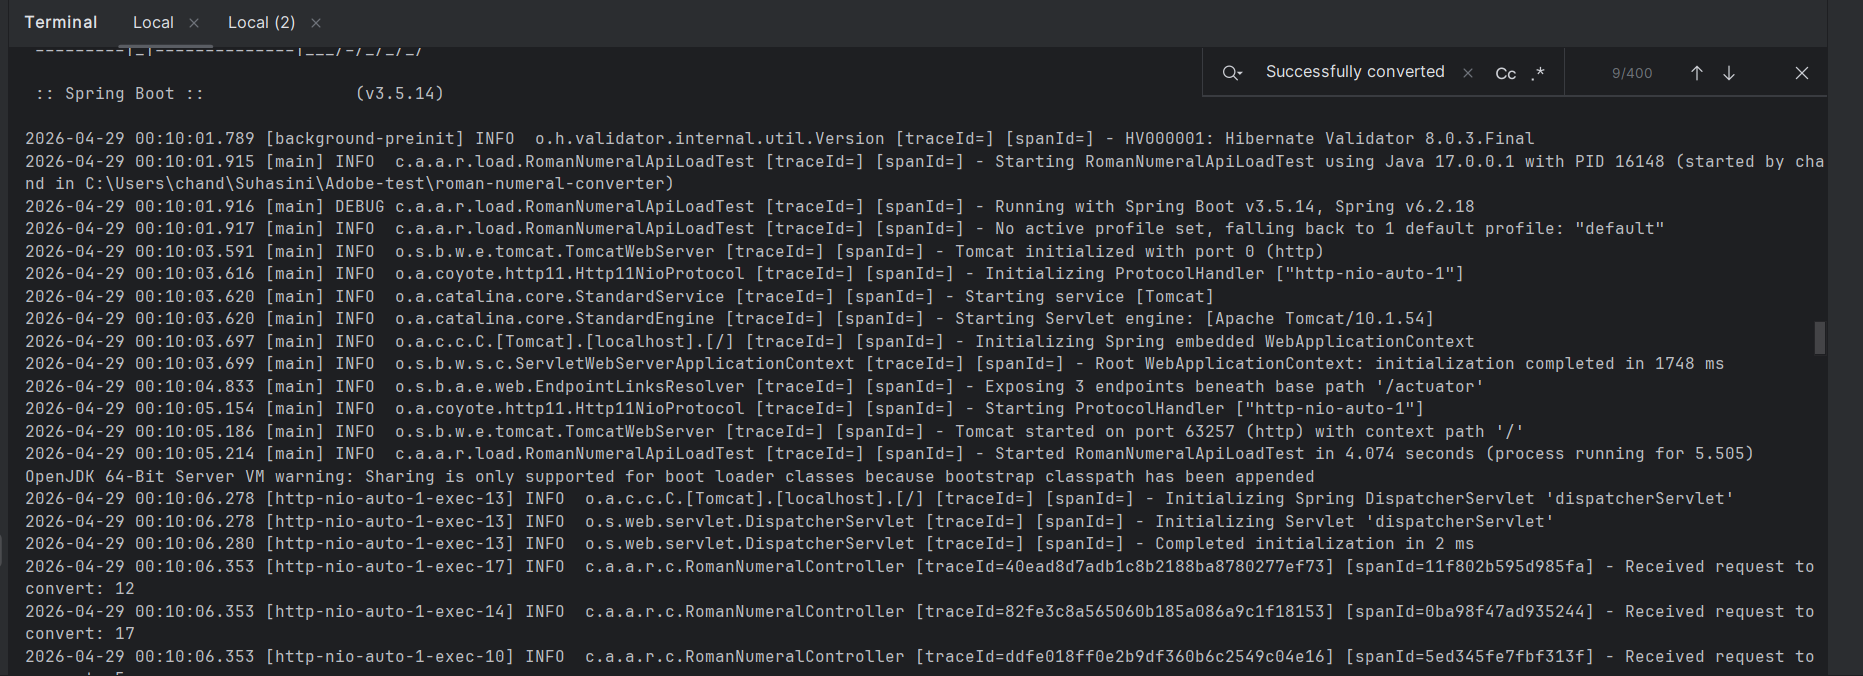
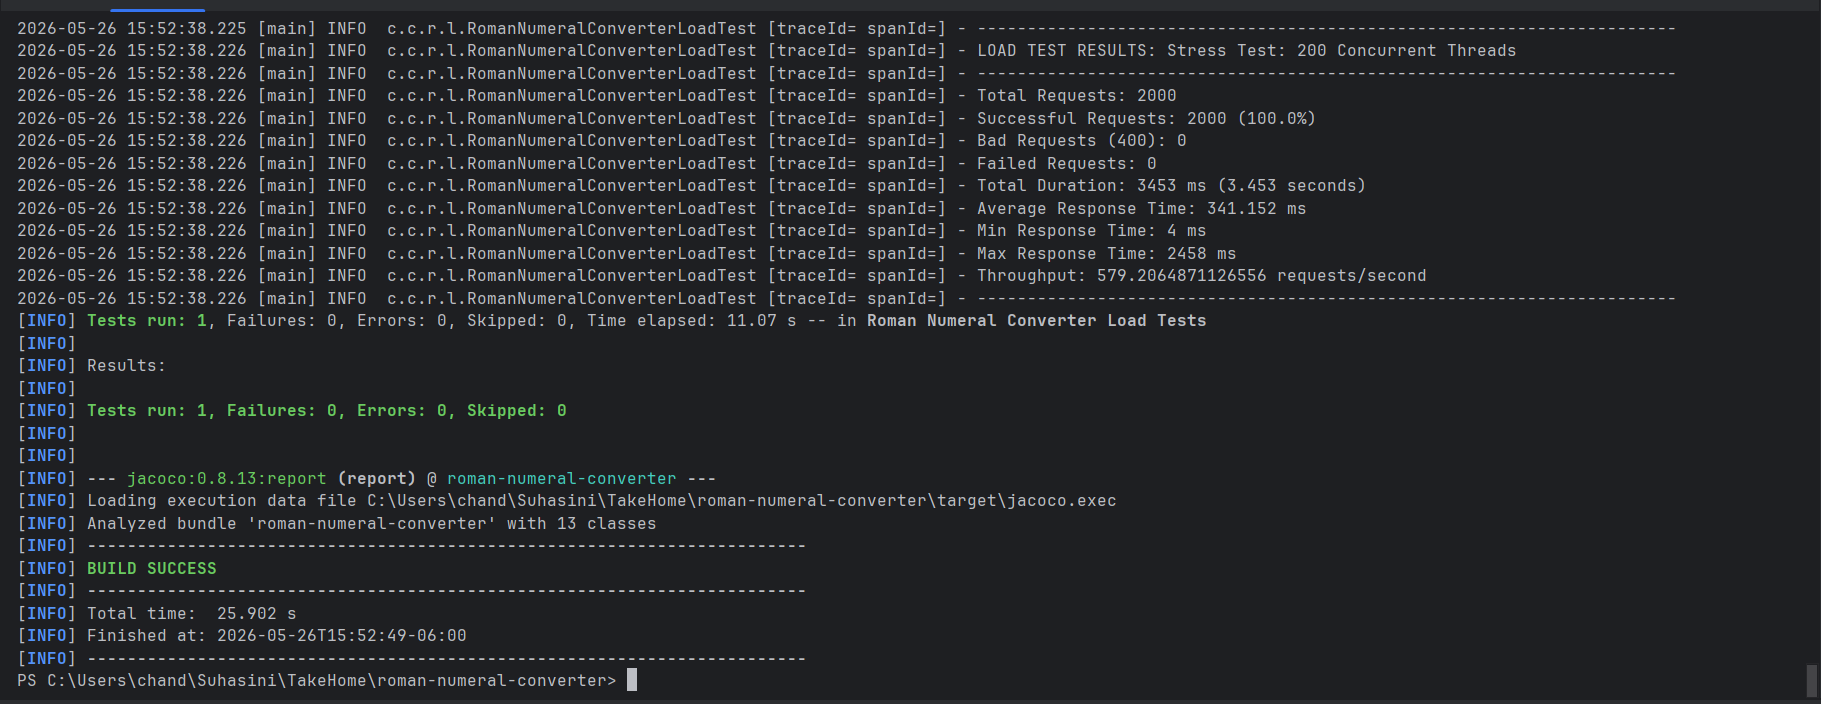
minor changes

Changed region(s): [[0.0, 0.0, 1.0, 0.9941], [0.9533, 0.466, 0.9841, 0.5281], [0.8611, 0.0932, 0.8918, 0.1243]]

diff --git a/src/test/java/com/converter/romannumerals/load/RomanNumeralConverterLoadTest.java b/src/test/java/com/converter/romannumerals/load/RomanNumeralConverterLoadTest.java
@@ -3,6 +3,7 @@ package com.converter.romannumerals.load;
 import lombok.extern.slf4j.Slf4j;
 import org.junit.jupiter.api.BeforeEach;
 import org.junit.jupiter.api.DisplayName;
+import org.junit.jupiter.api.Tag;
 import org.junit.jupiter.api.Test;
 import org.springframework.boot.test.context.SpringBootTest;
 import org.springframework.boot.test.web.client.TestRestTemplate;
@@ -26,9 +27,10 @@ import static org.assertj.core.api.Assertions.*;
  * {@code mvn test -Dgroups=loadtest}
  */
 @SpringBootTest(webEnvironment = SpringBootTest.WebEnvironment.RANDOM_PORT,
-                                properties = {"rate-limit.enabled=false"})
+        properties = {"rate-limit.enabled=false"})
 @Slf4j
 @DisplayName("Roman Numeral Converter Load Tests")
+@Tag("loadtest")
 class RomanNumeralConverterLoadTest {
 
     @LocalServerPort
@@ -38,7 +40,7 @@ class RomanNumeralConverterLoadTest {
     private String baseUrl;
 
     @BeforeEach
-    void setup() {
+    void setUp() {
         restTemplate = new TestRestTemplate();
         baseUrl = "http://localhost:" + port;
     }
@@ -141,8 +143,7 @@ class RomanNumeralConverterLoadTest {
         int totalRequests = 300;
 
         LoadTestMetrics metrics = executeLoadTest(concurrentRequests, totalRequests, () -> {
-            Random random = new Random();
-            int randomNumber = random.nextBoolean() ? 1 : 3999;
+            int randomNumber = new Random().nextBoolean() ? 1 : 3999;
             return restTemplate.getForEntity(
                     baseUrl + "/romannumeral?query=" + randomNumber,
                     Object.class
@@ -201,7 +202,7 @@ class RomanNumeralConverterLoadTest {
             );
         });
 
-        logMetrics("200 Concurrent Threads Stress Test", metrics);
+        logMetrics("Stress Test: 200 Concurrent Threads", metrics);
 
         assertThat(metrics.totalRequests).isEqualTo(totalRequests);
         assertThat(metrics.successfulRequests).isGreaterThanOrEqualTo((int)(totalRequests * 0.90));
@@ -253,12 +254,12 @@ class RomanNumeralConverterLoadTest {
         }
 
         executorService.shutdown();
-        try{
+        try {
             if (!executorService.awaitTermination(durationSeconds + 10, TimeUnit.SECONDS)) {
                 log.warn("Sustained load executor did not terminate within timeout - forcing shutdown");
                 executorService.shutdownNow();
                 if (!executorService.awaitTermination(30, TimeUnit.SECONDS)) {
-                    log.error("Sustained load executor did not terminate after shutdowns");
+                    log.error("Sustained load executor did not terminate after shutdown");
                 }
             }
         } catch (InterruptedException e) {
@@ -280,16 +281,16 @@ class RomanNumeralConverterLoadTest {
 
         double throughput = (double) totalRequests.get() / durationSeconds;
 
-        log.info("=".repeat(70));
-        log.info("SUSTAINED LOAD TEST RESULTS (30 seconds)");
-        log.info("=".repeat(70));
+        log.info("-".repeat(70));
+        log.info("SUSTAINED LOAD TEST RESULTS (30 seconds):");
+        log.info("-".repeat(70));
         log.info("Total Requests: {}", totalRequests.get());
-        log.info("Successful Requests: {} ({:.2f}%)", successfulRequests.get(),
+        log.info("Successful Requests: {} ({}%)", successfulRequests.get(),
                 (successfulRequests.get() * 100.0) / totalRequests.get());
-        log.info("Throughput: {:.2f} requests/second", throughput);
-        log.info("Average Response Time: {:.2f} ms", avgResponseTime);
+        log.info("Throughput: {} requests/second", throughput);
+        log.info("Average Response Time: {} ms", avgResponseTime);
         log.info("Max Response Time: {} ms", maxResponseTime);
-        log.info("=".repeat(70));
+        log.info("-".repeat(70));
 
         assertThat(totalRequests.get()).isGreaterThan(0);
         assertThat(successfulRequests.get()).isGreaterThanOrEqualTo((int)(totalRequests.get() * 0.90));
@@ -312,7 +313,7 @@ class RomanNumeralConverterLoadTest {
                 );
             });
 
-            log.info("Ramp-up: {} threads - Avg Response Time: {:.2f} ms, Success Rate: {:.2f}%",
+            log.info("Ramp-up: {} threads - Avg Response Time: {} ms, Success Rate: {}%",
                     threadCount, metrics.avgResponseTime,
                     (metrics.successfulRequests * 100.0) / metrics.totalRequests);
         }
@@ -327,7 +328,7 @@ class RomanNumeralConverterLoadTest {
      * @return LoadTestMetrics with collected performance data
      */
     private LoadTestMetrics executeLoadTest(int concurrentRequests, int totalRequests,
-                                           RequestSupplier requestSupplier) throws InterruptedException {
+                                            RequestSupplier requestSupplier) throws InterruptedException {
         ExecutorService executorService = Executors.newFixedThreadPool(concurrentRequests);
         List<Long> responseTimes = Collections.synchronizedList(new ArrayList<>());
         AtomicInteger successfulRequests = new AtomicInteger(0);
@@ -360,12 +361,12 @@ class RomanNumeralConverterLoadTest {
         }
 
         executorService.shutdown();
-        try{
-            if (!executorService.awaitTermination(5, TimeUnit.SECONDS)) {
+        try {
+            if (!executorService.awaitTermination(5, TimeUnit.MINUTES)) {
                 log.warn("Sustained load executor did not terminate within timeout - forcing shutdown");
                 executorService.shutdownNow();
                 if (!executorService.awaitTermination(30, TimeUnit.SECONDS)) {
-                    log.error("Sustained load executor did not terminate after shutdowns");
+                    log.error("Sustained load executor did not terminate after shutdown");
                 }
             }
         } catch (InterruptedException e) {
@@ -375,6 +376,7 @@ class RomanNumeralConverterLoadTest {
         }
 
         long endTime = System.currentTimeMillis();
+
         double avgResponseTime = responseTimes.stream()
                 .mapToLong(Long::longValue)
                 .average()
@@ -406,22 +408,22 @@ class RomanNumeralConverterLoadTest {
      * Log load test metrics in a formatted table.
      */
     private void logMetrics(String testName, LoadTestMetrics metrics) {
-        log.info("=".repeat(70));
+        log.info("-".repeat(70));
         log.info("LOAD TEST RESULTS: {}", testName);
-        log.info("=".repeat(70));
+        log.info("-".repeat(70));
         log.info("Total Requests: {}", metrics.totalRequests);
-        log.info("Successful Requests: {} ({:.2f}%)", metrics.successfulRequests,
+        log.info("Successful Requests: {} ({}%)", metrics.successfulRequests,
                 (metrics.successfulRequests * 100.0) / metrics.totalRequests);
         log.info("Bad Requests (400): {}", metrics.badRequestCount);
         log.info("Failed Requests: {}", metrics.failedRequests);
-        log.info("Total Duration: {} ms ({:.2f} seconds)", metrics.totalDuration,
+        log.info("Total Duration: {} ms ({} seconds)", metrics.totalDuration,
                 metrics.totalDuration / 1000.0);
-        log.info("Average Response Time: {:.2f} ms", metrics.avgResponseTime);
+        log.info("Average Response Time: {} ms", metrics.avgResponseTime);
         log.info("Min Response Time: {} ms", metrics.minResponseTime);
         log.info("Max Response Time: {} ms", metrics.maxResponseTime);
-        log.info("Throughput: {:.2f} requests/second", 
+        log.info("Throughput: {} requests/second",
                 (metrics.totalRequests * 1000.0) / metrics.totalDuration);
-        log.info("=".repeat(70));
+        log.info("-".repeat(70));
     }
 
     /**
@@ -438,8 +440,8 @@ class RomanNumeralConverterLoadTest {
         final long totalDuration;
 
         LoadTestMetrics(int totalRequests, int successfulRequests, int badRequestCount,
-                       int failedRequests, double avgResponseTime, long minResponseTime,
-                       long maxResponseTime, long totalDuration) {
+                        int failedRequests, double avgResponseTime, long minResponseTime,
+                        long maxResponseTime, long totalDuration) {
             this.totalRequests = totalRequests;
             this.successfulRequests = successfulRequests;
             this.badRequestCount = badRequestCount;
@@ -456,7 +458,6 @@ class RomanNumeralConverterLoadTest {
      */
     @FunctionalInterface
     private interface RequestSupplier {
-        ResponseEntity<?> get();
+        ResponseEntity<?> get() throws Exception;
     }
 }
-

diff --git a/src/main/java/com/converter/romannumerals/filter/RateLimitingFilter.java b/src/main/java/com/converter/romannumerals/filter/RateLimitingFilter.java
@@ -1,6 +1,8 @@
 package com.converter.romannumerals.filter;
 
 import com.converter.romannumerals.config.RateLimitProperties;
+import com.github.benmanes.caffeine.cache.Caffeine;
+import com.github.benmanes.caffeine.cache.Cache;
 import jakarta.servlet.FilterChain;
 import jakarta.servlet.ServletException;
 import jakarta.servlet.http.HttpServletRequest;
@@ -13,9 +15,8 @@ import org.springframework.stereotype.Component;
 import org.springframework.web.filter.OncePerRequestFilter;
 
 import java.io.IOException;
+import java.time.Duration;
 import java.time.Instant;
-import java.util.Map;
-import java.util.concurrent.ConcurrentHashMap;
 import java.util.concurrent.atomic.AtomicInteger;
 
 /**
@@ -31,7 +32,11 @@ public class RateLimitingFilter extends OncePerRequestFilter {
 
     private final RateLimitProperties rateLimitProperties;
 
-    private final Map<String, ClientRateInfo> clientRateMap = new ConcurrentHashMap<>();
+    // Use a bounded, evicting cache to avoid unbounded memory growth
+    private final Cache<String, ClientRateInfo> clientRateCache = Caffeine.newBuilder()
+            .expireAfterAccess(Duration.ofMinutes(10))
+            .maximumSize(10_000)
+            .build();
 
     @Override
     protected void doFilterInternal(HttpServletRequest request,
@@ -45,35 +50,30 @@ public class RateLimitingFilter extends OncePerRequestFilter {
 
         String clientIp = getClientIp(request);
 
-        ClientRateInfo rateInfo = clientRateMap.compute(clientIp, (ip, existing) -> {
-            long now = System.currentTimeMillis();
-            long windowMillis = rateLimitProperties.getTimeWindowSeconds() * 1000L;
+        long now = System.currentTimeMillis();
+        long windowMillis = rateLimitProperties.getTimeWindowSeconds() * 1000L;
 
-            if (existing == null || now - existing.windowStart > windowMillis) {
-                return new ClientRateInfo(now, new AtomicInteger(0));
-            }
-
-            return existing;
-        });
+        // Retrieve existing ClientRateInfo or create/reset when window expired
+        ClientRateInfo rateInfo = clientRateCache.getIfPresent(clientIp);
+        if (rateInfo == null || now - rateInfo.windowStart > windowMillis) {
+            ClientRateInfo newInfo = new ClientRateInfo(now, new AtomicInteger(0));
+            clientRateCache.put(clientIp, newInfo);
+            rateInfo = newInfo;
+        }
 
         int currentCount = rateInfo.requestCount.incrementAndGet();
-        int remaining = Math.max(0,
-                rateLimitProperties.getMaxRequests() - currentCount);
+        int remaining = Math.max(0, rateLimitProperties.getMaxRequests() - currentCount);
 
-        response.setHeader("X-Rate-Limit-Limit",
-                String.valueOf(rateLimitProperties.getMaxRequests()));
-
-        response.setHeader("X-Rate-Limit-Remaining",
-                String.valueOf(remaining));
+        response.setHeader("X-Rate-Limit-Limit", String.valueOf(rateLimitProperties.getMaxRequests()));
+        response.setHeader("X-Rate-Limit-Remaining", String.valueOf(remaining));
 
         if (currentCount > rateLimitProperties.getMaxRequests()) {
-
             long elapsedMillis = System.currentTimeMillis() - rateInfo.windowStart;
 
             long retryAfterSeconds = Math.max(1,
                     (rateLimitProperties.getTimeWindowSeconds() * 1000L - elapsedMillis) / 1000L);
 
-            log.warn("Rate limit exceeded for IP={} requests={} retry={}s",
+            log.warn("Rate limit exceeded for IP={} requests={} retry={s}",
                     clientIp, currentCount, retryAfterSeconds);
 
             response.setStatus(HttpStatus.TOO_MANY_REQUESTS.value());
@@ -82,11 +82,11 @@ public class RateLimitingFilter extends OncePerRequestFilter {
 
             String body = """
                     {
-                      "timestamp": "%s",
-                      "status": 429,
-                      "error": "Too Many Requests",
-                      "message": "Rate limit exceeded",
-                      "path": "%s"
+                        "timestamp": "%s",
+                        "status": 429,
+                        "error": "Too Many Requests",
+                        "message": "Rate limit exceeded",
+                        "path": "%s"
                     }
                     """.formatted(Instant.now(), request.getRequestURI());
 
@@ -124,7 +124,6 @@ public class RateLimitingFilter extends OncePerRequestFilter {
      * windowStart = start of the current window.
      */
     static class ClientRateInfo {
-
         final long windowStart;
         final AtomicInteger requestCount;
 

diff --git a/src/main/java/com/converter/romannumerals/controller/RomanNumeralController.java b/src/main/java/com/converter/romannumerals/controller/RomanNumeralController.java
@@ -59,7 +59,7 @@ public class RomanNumeralController {
      */
     @Operation(
             summary = "Convert a single integer to Roman numeral",
-            description = "Accepts an integer between"+ MIN_VALUE+ "and "+ MAX_VALUE + "and returns its Roman numeral representation."
+            description = "Accepts an integer between "+ MIN_VALUE+ " and "+ MAX_VALUE + "and returns its Roman numeral representation."
     )
     @ApiResponses(value = {
             @ApiResponse(
@@ -129,7 +129,7 @@ public class RomanNumeralController {
     @Operation(
             summary = "Convert a range of integers to Roman numerals",
             description = "Accepts a range of integers (min and max) between "+ MIN_VALUE+" and "+ MAX_VALUE +
-                    "and returns their Roman numeral representations in ascending order. Computed using Java 21 virtual threads."
+                    " and returns their Roman numeral representations in ascending order. Computed using Java 21 virtual threads."
     )
     @ApiResponses(value = {
             @ApiResponse(responseCode = "200", description = "Successful conversion of range",
@@ -175,13 +175,13 @@ public class RomanNumeralController {
     @Observed(name = "romannumeral.convertRange", contextualName = "convert-range-to-roman")
     @GetMapping(params = {MIN, MAX})
     public ResponseEntity<RangeConversionResponse> convertRangeToRoman(
-            @Parameter(description = "Start of range (inclusive)"+MIN_VALUE+"-"+MAX_VALUE+")", example = "1")
+            @Parameter(description = "Start of range (inclusive) ("+MIN_VALUE+"-"+MAX_VALUE+")", example = "1")
             @RequestParam(name = MIN, required = false)
             @Min(value = MIN_VALUE, message = MIN + INVALID_RANGE_ERR_MSG)
             @Max(value = MAX_VALUE, message = MIN + INVALID_RANGE_ERR_MSG)
             Integer min,
 
-            @Parameter(description = "End of range (inclusive)"+MIN_VALUE+"-"+MAX_VALUE+")", example = "4")
+            @Parameter(description = "End of range (inclusive) ("+MIN_VALUE+"-"+MAX_VALUE+")", example = "4")
             @RequestParam(name = MAX, required = false)
             @Min(value = MIN_VALUE, message = MAX + INVALID_RANGE_ERR_MSG)
             @Max(value = MAX_VALUE, message = MAX + INVALID_RANGE_ERR_MSG)

diff --git a/src/main/java/com/converter/romannumerals/service/RomanNumeralConverterService.java b/src/main/java/com/converter/romannumerals/service/RomanNumeralConverterService.java
@@ -87,7 +87,8 @@ public class RomanNumeralConverterService {
 
     @Observed(name = "romannumeral.range.converter", contextualName = "range-roman-conversion")
     public List<RomanNumeralResponse> convertRangeToRoman(int min, int max) {
-
+        validateRange(min);
+        validateRange(max);
         if (min >= max) {
             throw new InvalidRequestException("Invalid range: 'min'("+ min +") value must be less than " +
                     "'max' ("+max +"). Please ensure 'min' is smaller than 'max'.");
@@ -110,5 +111,13 @@ public class RomanNumeralConverterService {
     @PreDestroy
     void shutdownExecutor() {
         rangeExecutor.shutdown();
+        try {
+            if(!rangeExecutor.awaitTermination(5, java.util.concurrent.TimeUnit.SECONDS)) {
+                rangeExecutor.shutdownNow();
+            }
+        } catch (InterruptedException e) {
+            rangeExecutor.shutdownNow();
+            Thread.currentThread().interrupt();
+        }
     }
 }

diff --git a/src/main/java/com/converter/romannumerals/exception/GlobalExceptionHandler.java b/src/main/java/com/converter/romannumerals/exception/GlobalExceptionHandler.java
@@ -125,7 +125,7 @@ public class GlobalExceptionHandler {
      */
     @ExceptionHandler(Exception.class)
     public ResponseEntity<ErrorResponse> handleGeneric(Exception ex) {
-        log.error("Unhandled exception occurred", ex.getMessage());
+        log.error("Unhandled exception occurred", ex);
         return buildErrorResponse(HttpStatus.INTERNAL_SERVER_ERROR, INTERNAL_SERVER_ERROR_MESSAGE);
     }
 

diff --git a/README.md b/README.md
@@ -1,6 +1,6 @@
 # roman-numeral-converter
 
-This project implements a Roman numeral conversion service that converts integers to their Roman numeral representation with support for single-value and range-based conversion in a constrained range of 1 to 3999.
+This project implements a Roman numeral conversion microservice that converts integers to their Roman numeral representation with support for single-value and range-based conversion in a constrained range of 1 to 3999.
 
 The goal of this project is to demonstrate how to design and build a production-ready microservice, including:
 
@@ -247,7 +247,7 @@ Performance testing is implemented to validate system behavior under concurrent 
 #### Run load tests
 Use the below command to run a load test on this API
 ``` bash
-    mvn test -Dtest=RomanNumeralConverterLoadTest
+    mvn test -DexcludedGroups="" -DincludedGroups=loadtest
 ```
 
 The `RomanNumeralConverterLoadTest` simulates 400 requests with 20 concurrent threads, including an initial warm-up phase. The test enforces the following performance criteria:
@@ -255,8 +255,6 @@ The `RomanNumeralConverterLoadTest` simulates 400 requests with 20 concurrent th
 ● Zero request failures
 
 ● Average response time < 250 ms
-
-● 95th percentile (P95) latency < 500 ms
 
 These thresholds ensure the service maintains both stability and responsiveness under load.
 ![img_4.png](images/load-test.png)
